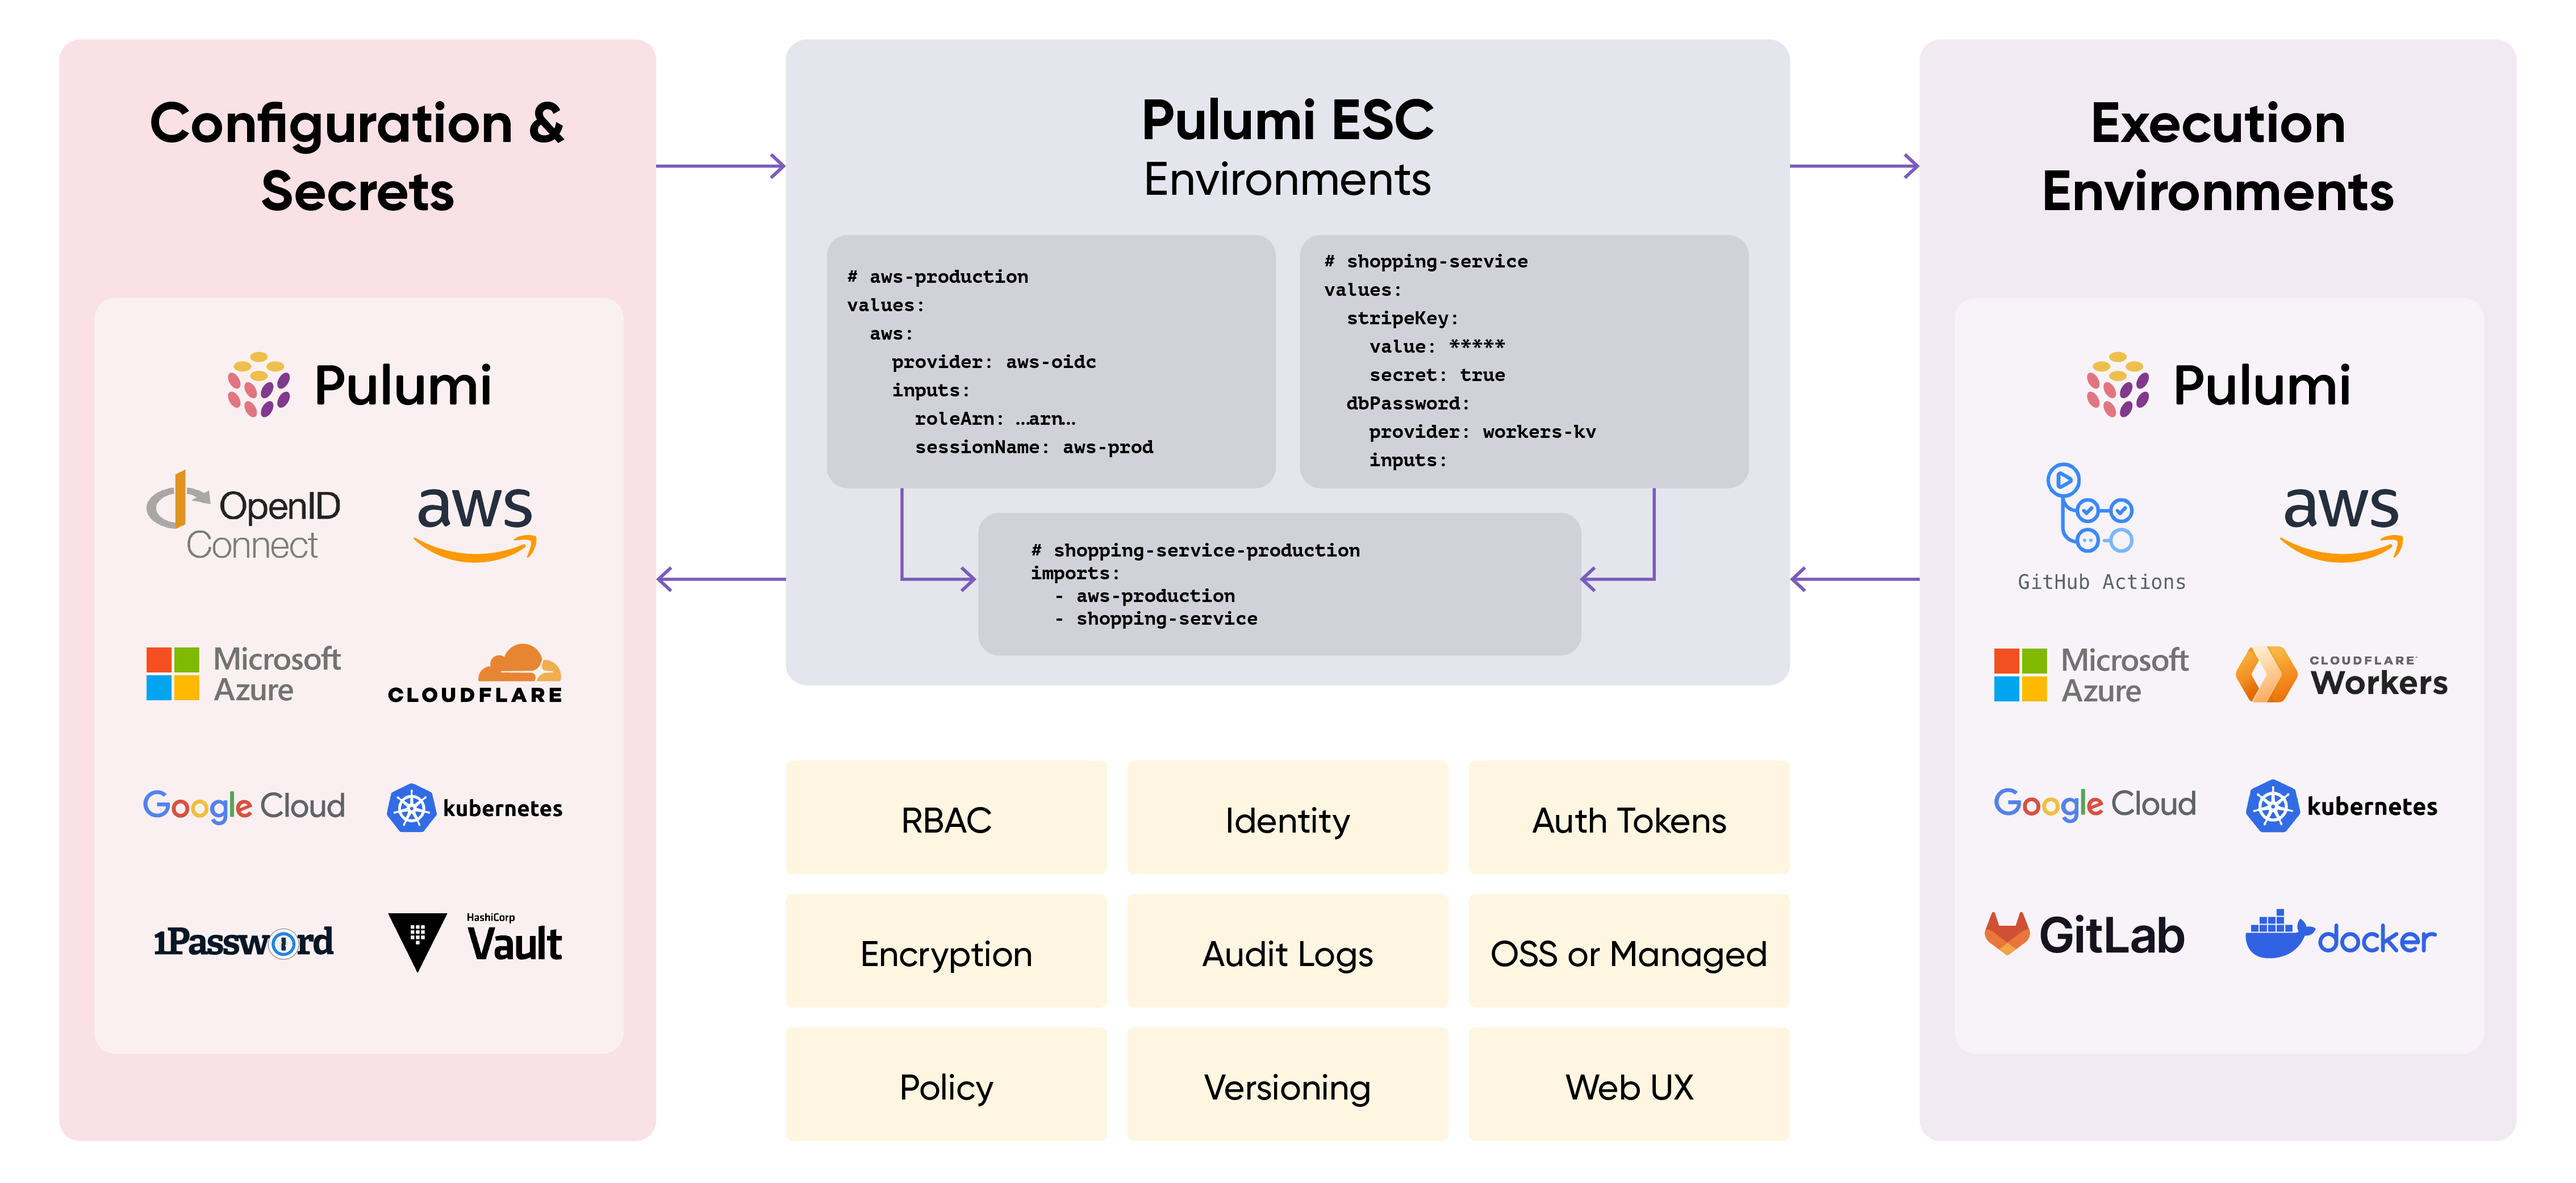
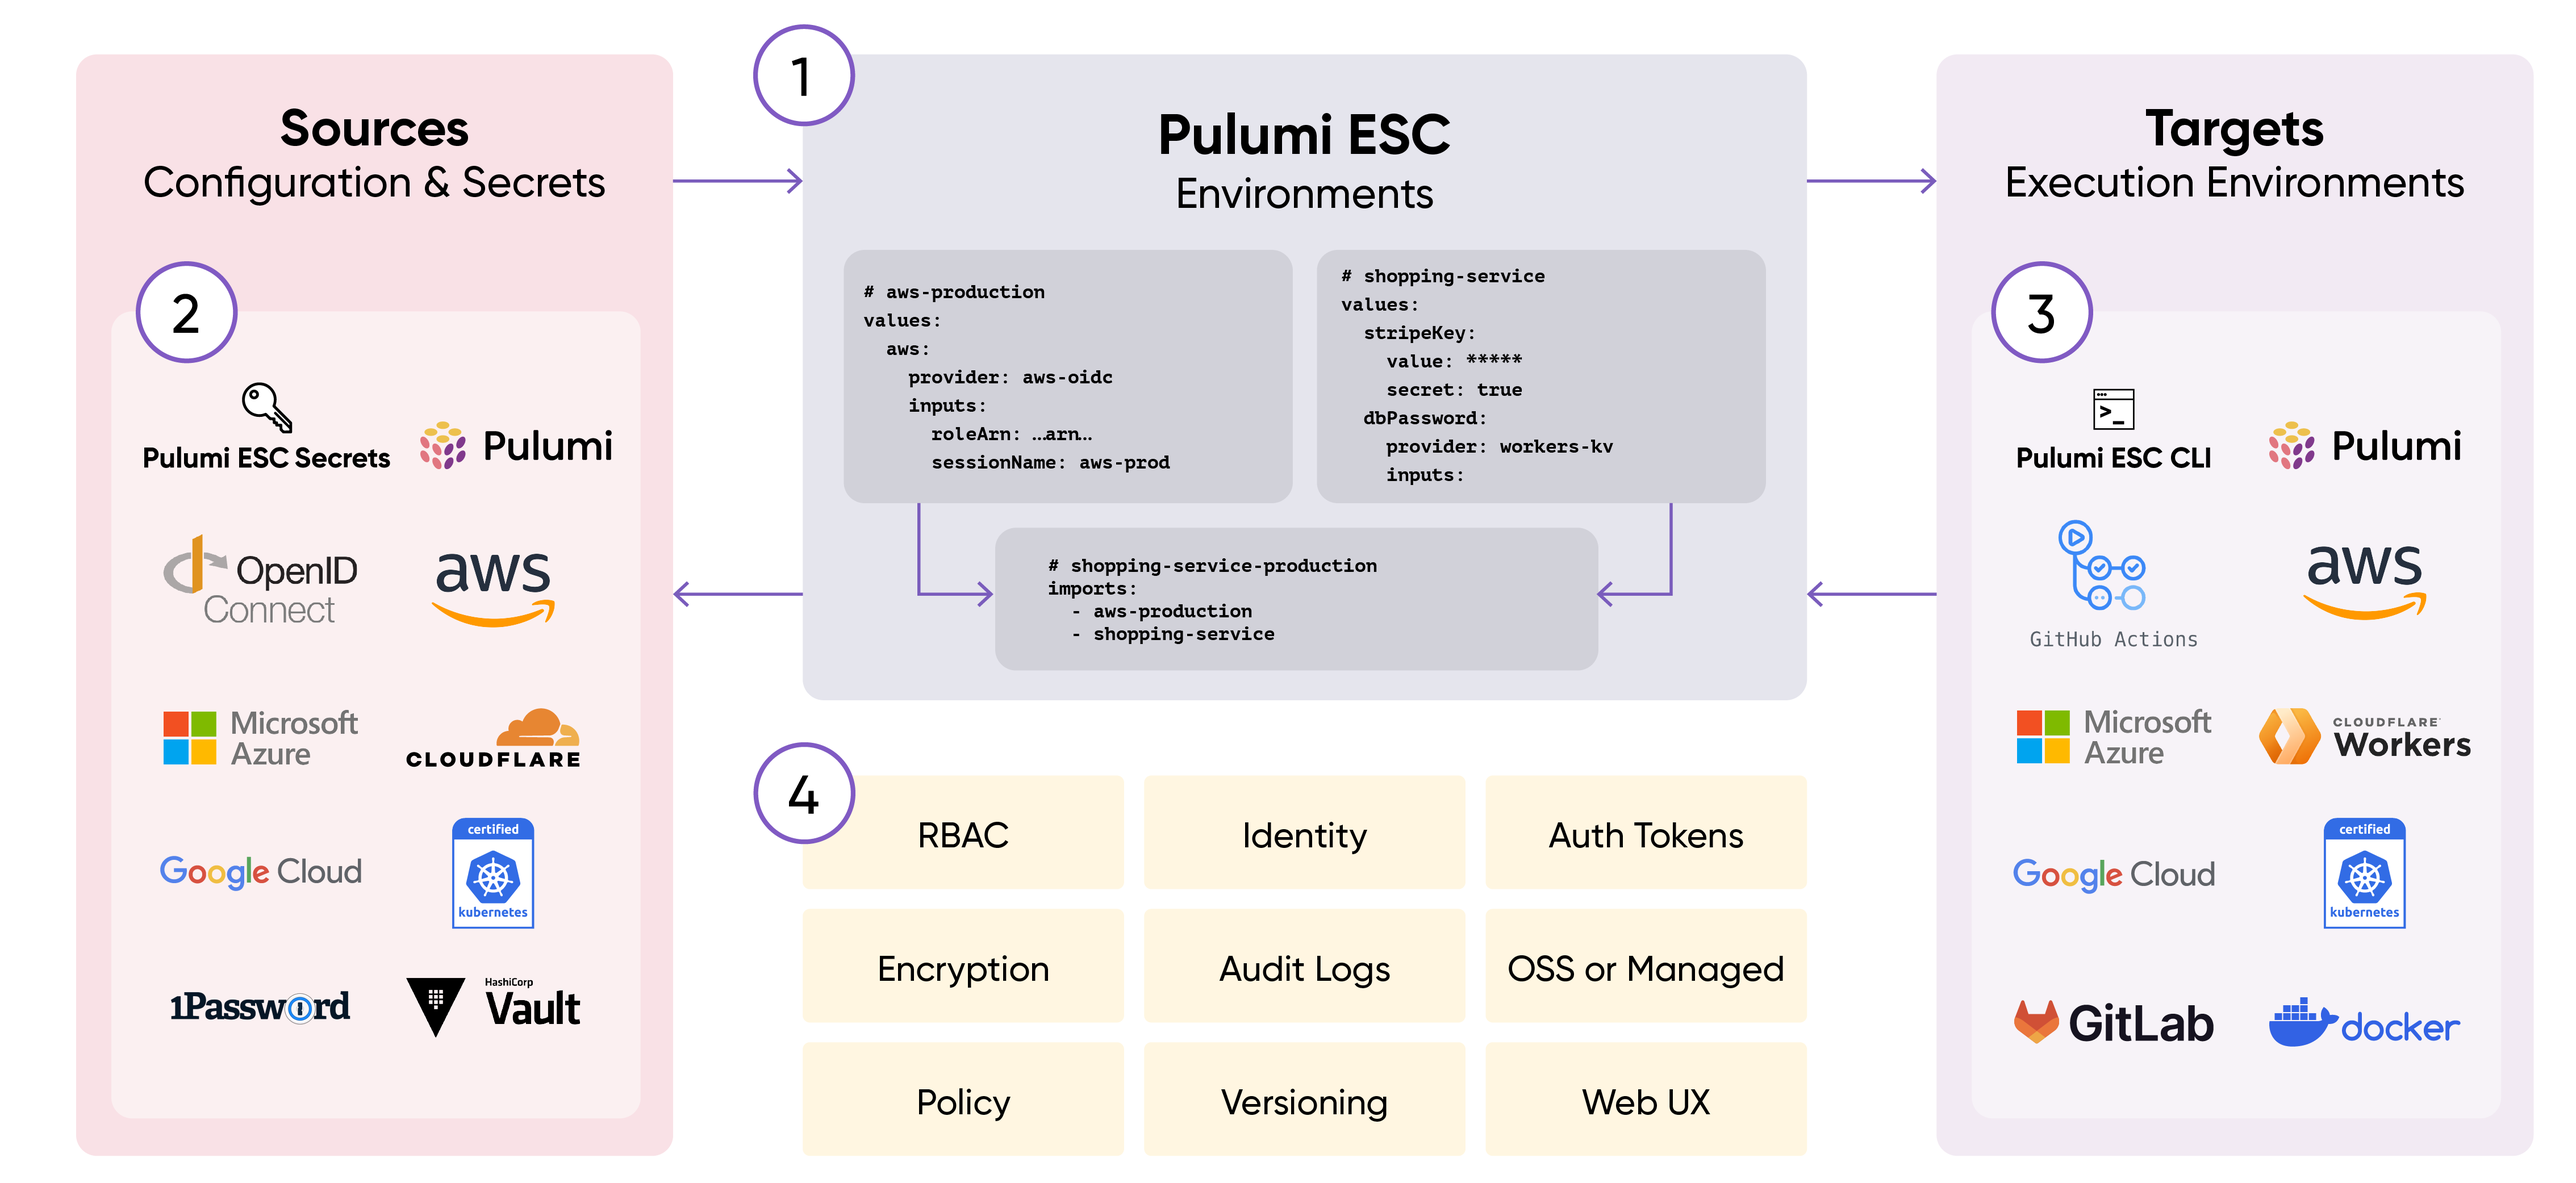
adding image again, including descriptions of the product capabilities

diff --git a/themes/default/content/docs/pulumi-cloud/esc/_index.md b/themes/default/content/docs/pulumi-cloud/esc/_index.md
@@ -17,6 +17,14 @@ Pulumi ESC is offered as a fully managed cloud service in Pulumi Cloud (and Pulu
 
 ![Pulumi ESC ecosystem](img/pulumi_esc.png)
 
+1. Pulumi ESC enables you to define environments, which contain collections of secrets and configuration. Each environment can be composed from multiple environments.
+
+2. Pulumi ESC supports a variety of configuration and secrets sources, and it has an extensible plugin model that allows third-party sources.
+
+3. Pulumi ESC has a rich API that allows for easy integration. Every value in an environment can be accessed from any target execution environment.
+
+4. Every environment can be locked down with RBAC, versioned, and audited.
+
 ## Dynamic Secrets Providers
 
 Support for dynamic configuration providers allow Pulumi ESC to integrate with secrets stored in any other provider.  Organizations often use AWS OIDC, AWS Secrets Manager, Vault, Azure OIDC, Azure KeyVault, GCP OIDC, and GCP Secrets Manager plus many more sources of truth for their secrets and configuration.  Pulumi ESC supports them all, providing a single interface to your configuration and secrets, no matter where their source of truth is.  Pulumi ESC works with these tools to provide improved management of secrets and configuration.
